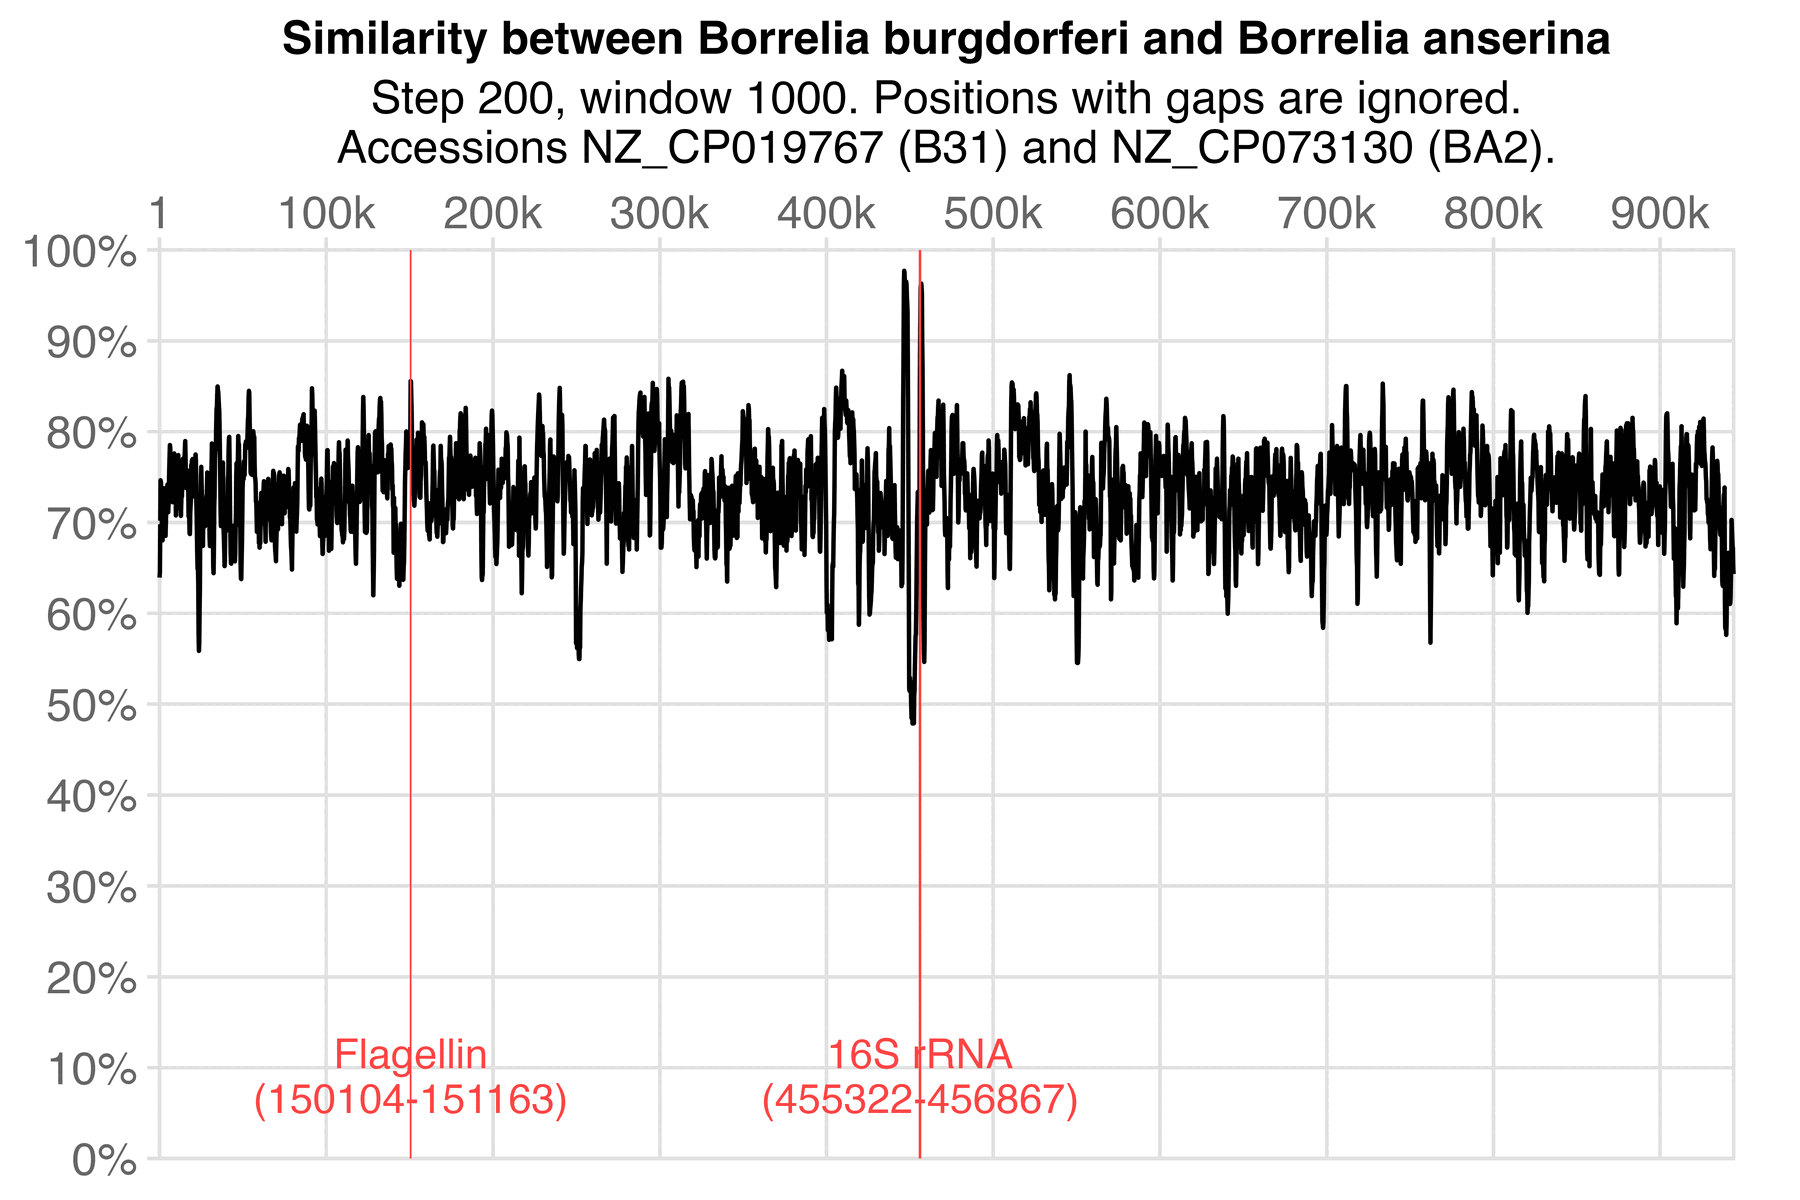
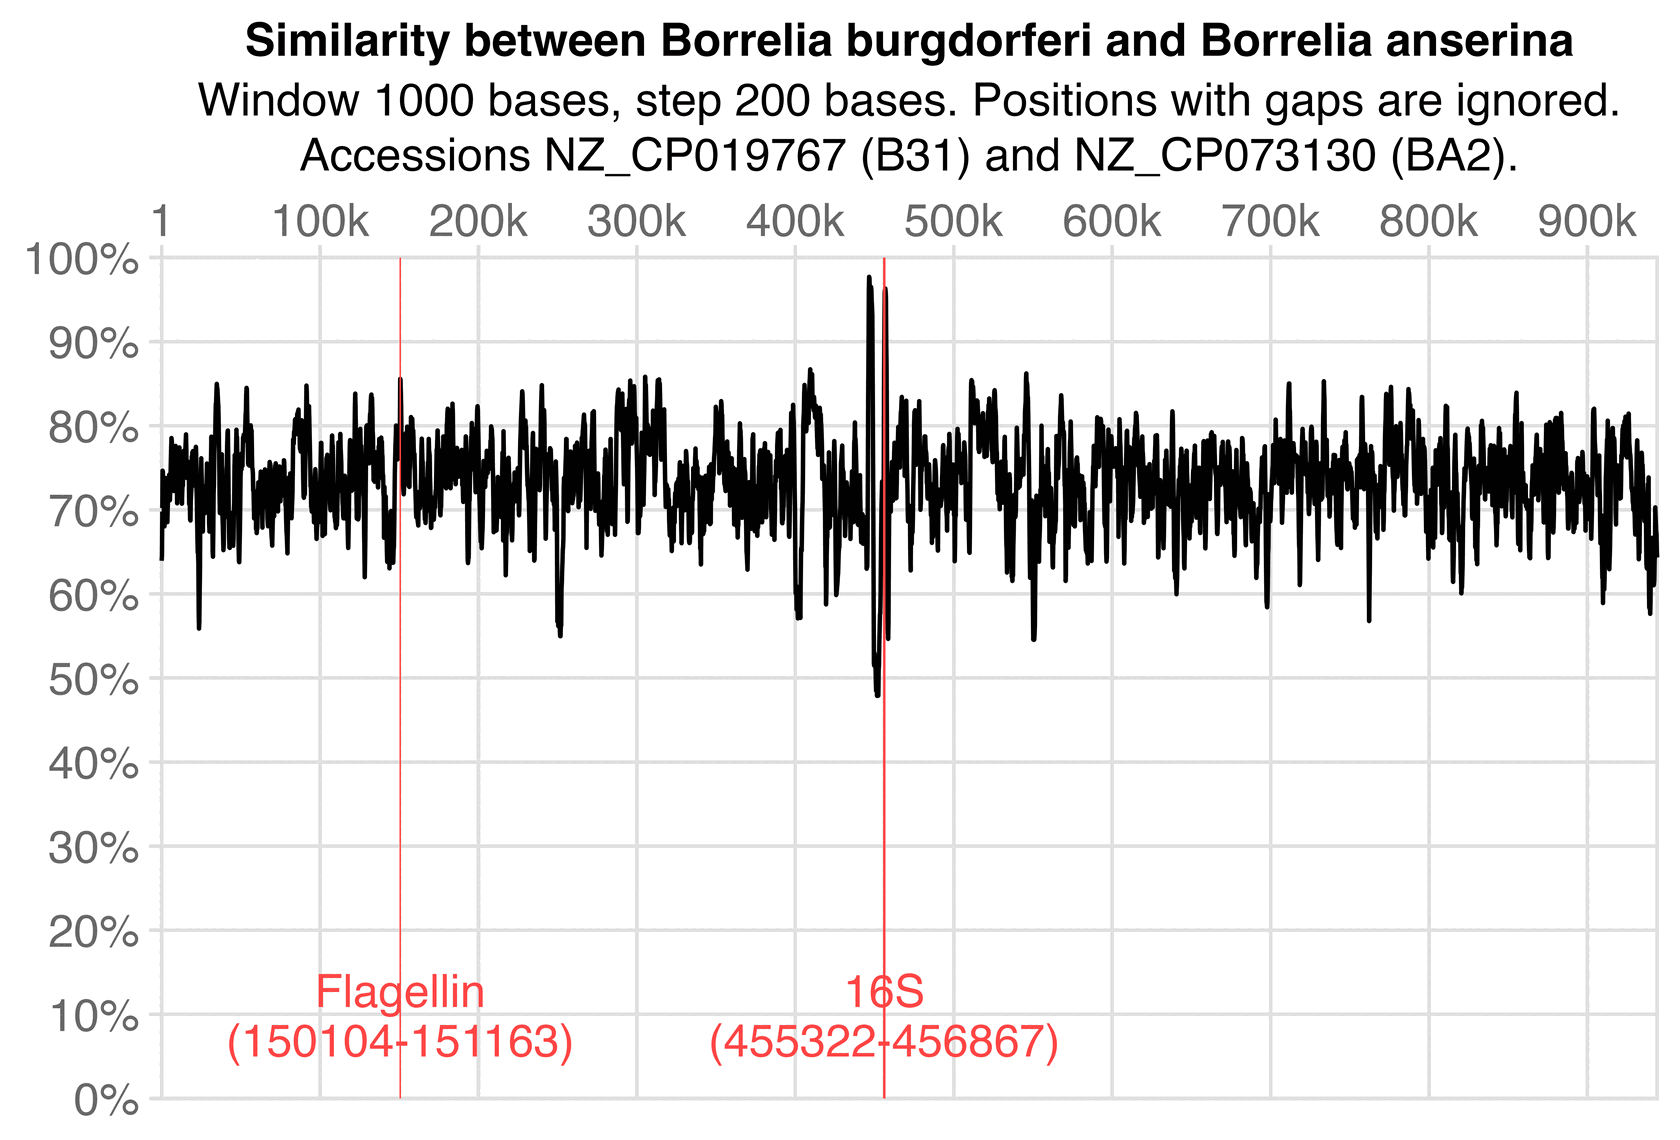
a

diff --git a/lyme.html b/lyme.html
@@ -10,12 +10,12 @@ dl,pre{margin:1em auto;width:fit-content;max-width:min(100%, 1000px);box-sizing:
 hr{border:none;border-top: 2px solid #bbb;margin:1em auto;max-width:480px}
 ul,ol{width:min(100%, 480px);margin:1em auto;box-sizing:border-box}
 ul ul,ul ol,ol ol,ol ul{margin-top:0;margin-bottom:0}
-h1,h2,h3,h2 a,h3 a,h2 a:visited,h3 a:visited{color:white;font-weight:normal}
+h1,h2,h3,h4,h2 a,h3 a,h2 a:visited,h3 a:visited{color:white;font-weight:normal}
 h2 a,h3 a{text-decoration:underline}
 h1{font-size:2.1em;margin:.7em 0 .5em 0}
 h2{font-size:1.75em}
 h3{font-size:1.35em}
-h4{font-size:1.1em}
+h4{font-size:1.15em}
 blockquote h2,blockquote h3,blockquote h4{margin:.5em 0}
 blockquote ul,blockquote ol{margin:.4em 0}
 a,a .quote{text-decoration:none;color:hsl(220,100%,75%)}
@@ -1801,11 +1801,11 @@ class="paren">[<a href=https://www.amazon.com/Lyme-Disease-Elbrus-Rachel-Verdon-
 I don't know if Verdon herself was a member of UJA in DC, or if she
 attended an event by UJA in DC even though she was not a member of UJA,
 or if she only communicated online with members of UJA from DC.</p>
-<p>However the connection to UJA in DC is interesting, because Loftus
-used to work in DC before he moved to Florida, and he spoke at several
-events organized by UJA between at least 1985 and 2003, one of which
-featured a person named Sol Schnadow according to <em class=quote>New Jewsey Jewish
-News</em>. <span
+<p>But regardless her connection to UJA in DC is interesting, because
+Loftus used to work in DC before he moved to Florida, and he spoke at
+several events organized by UJA between at least 1985 and 2003, one of
+which also featured a person named Sol Schnadow according to a Jewish
+newspaper. <span
 class="paren">[<a href=https://www.jhsnj-archives.org/?a=d&d=njjn19850620-01.1.1>https://<wbr>www.<wbr>jhsnj-<wbr>archives.<wbr>org/?<wbr>a=d&amp;<wbr>d=njjn19850620-<wbr>01.<wbr>1.<wbr>1</a>,
 <a href=https://www.jhsnj-archives.org/?a=d&d=njjn19851017-01.1.3>https://<wbr>www.<wbr>jhsnj-<wbr>archives.<wbr>org/?<wbr>a=d&amp;<wbr>d=njjn19851017-<wbr>01.<wbr>1.<wbr>3</a>,
 <a href=https://www.jhsnj-archives.org/?a=d&d=njjn19860206-01.1.6>https://<wbr>www.<wbr>jhsnj-<wbr>archives.<wbr>org/?<wbr>a=d&amp;<wbr>d=njjn19860206-<wbr>01.<wbr>1.<wbr>6</a>,
@@ -1919,7 +1919,7 @@ Later Mahmood's son told the Associated Press that Osama had asked
 Mahmood <span class="quote">"How can a nuclear bomb be made and can you
 help us make one?"</span> <span
 class="paren">[<a href=https://www.cbsnews.com/news/osama-wanted-nuke-help/>https://<wbr>www.<wbr>cbsnews.<wbr>com/<wbr>news/<wbr>osama-<wbr>wanted-<wbr>nuke-<wbr>help/<wbr></a>]</span></p>
-<p>In another part of the <em class=quote>Lab 257</em> book, Carrol wrote:</p>
+<p>In another part of the <em class=quote>Lab 257</em> book, Carroll wrote:</p>
 <blockquote class=quote>
 <p>The worst part of this scenario is that it pales in comparison to
 what the al Qaeda terrorist network or a well-trained
@@ -1949,8 +1949,8 @@ atrocity propaganda. The attacks on the twin towers were not blamed on
 Iraq, and none of the supposed hijackers came from Iraq, but Iraq was
 initially blamed for the anthrax attacks that began a week after
 September 11th. A month before the start of the Iraq War, Colin Powell
-famously held a mock vial of anthrax while he claimed Iraq was producing
-anthrax. <span
+famously gave a speech where he held a mock vial of anthrax while he
+claimed Iraq was producing anthrax. <span
 class="paren">[<a href=https://nsarchive2.gwu.edu/NSAEBB/NSAEBB234/20030205-Powell_UN.pdf>https://<wbr>nsarchive2.<wbr>gwu.<wbr>edu/<wbr>NSAEBB/<wbr>NSAEBB234/<wbr>20030205-<wbr>Powell_<wbr>UN.<wbr>pdf</a>]</span>
 The so-called weapons of mass destruction in Iraq were primarily said to
 be chemical and biological weapons, and not nuclear weapons. So the
@@ -1974,7 +1974,7 @@ career</a>
 <p>Mike Carroll received a bachelor's degree in political science from
 the School of Public Affairs of the American University in Washington
 DC, which offers many intelligence-related courses. Carroll is included
-on a list of famous alumni of his department along with two high-level
+on a list of notable alumni of his department along with two high-level
 DHS guys. <span
 class="paren">[<a href=https://www.american.edu/spa/alumni/notable-alumni.cfm>https://<wbr>www.<wbr>american.<wbr>edu/<wbr>spa/<wbr>alumni/<wbr>notable-<wbr>alumni.<wbr>cfm</a>]</span>
 The sports center of the university is known as the Adnan Khashoggi
@@ -3585,6 +3585,14 @@ correspond to tens or hundreds of millions of years of evolution.</p>
 orders of magnitude, so that within a period of only a few years, he was
 able to create all the different species in the LB group by serial
 passage starting from <em class=quote>Borrelia anserina</em>?</p>
+<p>In the introduction to Finnegan's book, Loftus suggested that
+<em class=quote>Borrelia burgdorferi</em> was created through serial passage, and he
+wrote: <span class="quote">"Serial passages can achieve laboratory viral
+and bacterial mutations in a few weeks that would take decades to
+develop in nature."</span> <span
+class="paren">[<a href=https://play.google.com/books/reader?id=aTKdEQAAQBAJ&pg=GBS.PT11.w.0.4.13_207>https://<wbr>play.<wbr>google.<wbr>com/<wbr>books/<wbr>reader?<wbr>id=aTKdEQAAQBAJ&amp;<wbr>pg=GBS.<wbr>PT11.<wbr>w.<wbr>0.<wbr>4.<wbr>13_<wbr>207</a>]</span>
+But the difference between decades and a few weeks is only about 2 to 3
+orders of magnitude, and not 7 to 8 orders of magnitude.</p>
 <p>The term <em class=quote>Borrelia burgdorferi</em> is sometimes employed in a
 broad sense <span class="paren">(<em class=quote>sensu lato</em>)</span>, which
 refers to a group of species of <em class=quote>Borrelia</em> associated with Lyme
@@ -3898,10 +3906,10 @@ a time span of a few years.</p>
 distance between <em class=quote>anserina</em> and <em class=quote>burgdorferi</em> corresponds
 to a tMRCA of about 200 million years. <span
 class="paren">[<a href=https://x.com/henjin256/status/2036272443992445130>https://<wbr>x.<wbr>com/<wbr>henjin256/<wbr>status/<wbr>2036272443992445130</a>]</span>
-He blocked me without responding to me, but a few hours later he posted
+He blocked me without replying to me, but a few hours later he tweeted
 about a paper that demonstrated that bacteria could acquire a 16S gene
 from another species of bacteria through horizontal gene transfer. So he
-seems to have suggested horizontal gene transfer might explain the
+seems to have suggested that horizontal gene transfer might explain the
 divergence between the 16S genes of <em class=quote>anserina</em> and
 <em class=quote>burgdorferi</em>: <span
 class="paren">[<a href=https://x.com/AWFinnegan/status/2036496401706684835>https://<wbr>x.<wbr>com/<wbr>AWFinnegan/<wbr>status/<wbr>2036496401706684835</a>,
@@ -3929,7 +3937,7 @@ targ=grep(<wbr>&quot;<wbr>burg&quot;,<wbr>rownames(<wbr>t),<wbr>value=T)<wbr>
 
 gene=fread(<wbr>&quot;<wbr>name,<wbr>start,<wbr>end,<wbr>height
 Flagellin,<wbr>147648,<wbr>148658,<wbr>1
-16S rRNA,<wbr>443773,<wbr>445308,<wbr>1&quot;)<wbr>
+16S,<wbr>443773,<wbr>445308,<wbr>1&quot;)<wbr>
 
 pos=seq_<wbr>along(<wbr>ref)+<wbr>cumsum(<wbr>ref==&quot;-<wbr>&quot;)<wbr>
 gene$<wbr>start=pos[<wbr>gene$<wbr>start]<wbr>
@@ -4285,7 +4293,7 @@ eggs instead of live chickens for teaching and research purposes.
 Finnegan interprets this as evidence that Traub came into possession of
 the avian spirochete <span class="paren">(<em class=quote>Spirochaeta
 gallinarum</em>, later renamed <em class=quote>Borrelia anserina</em>)</span>, which
-it claims was later weaponized into <em class=quote>Borrelia burgdorferi</em>.</p>
+he claims was later weaponized into <em class=quote>Borrelia burgdorferi</em>.</p>
 <h4
 id="mention-of-blood-parasites-in-the-horse-respiratory-catarrh-paper">3.
 1941 - Mention of blood parasites in the horse respiratory catarrh
@@ -4298,7 +4306,7 @@ catarrh. The paper is titled <span class="quote">"Infectious Respiratory
 Catarrh in the Horses of a Veterinary Company"</span> <span
 class="paren">(Traub 1941)</span>. Finnegan highlights the inclusion of
 blood-parasite examinations as evidence of Traub's direct laboratory
-experience with such organisms. It links this work to possible
+experience with such organisms. He links this work to possible
 familiarity with agents like <em class=quote>Babesia</em>, a common equine blood
 parasite, and suggests the study of mixed infections could have been
 useful for creating diagnostically confusing disease presentations.</p>
@@ -4311,7 +4319,7 @@ listed avian spirochetosis <span class="paren">(<em class=quote>Borrelia
 anserina</em>)</span> among <span class="quote">"special agents"</span>
 of particular concern. Finnegan claims this listing proves that Traub's
 earlier work with the avian spirochete at Giessen was recognized as a
-potential bioweapon. It further asserts that this conference provides
+potential bioweapon. He further asserts that this conference provides
 evidence that Lyme disease <span class="paren">(<em class=quote>Borrelia
 burgdorferi</em>)</span> originated from Traub's alleged weaponization
 of the avian strain, noting the complete absence of subsequent Plum
@@ -4327,7 +4335,7 @@ responsibilities connected to maintaining approximately 40 strains of
 viruses and rickettsiae. Finnegan interprets this broad mandate as
 including tick-borne diseases, even though no specific tick-borne agents
 are named in the surviving job descriptions or publications from that
-period. It presents these duties as circumstantial support for the idea
+period. He presents these duties as circumstantial support for the idea
 that Traub continued working with or supervising research on rickettsial
 and tick-related pathogens under U.S. Navy auspices.</p>
 <h4
@@ -4412,7 +4420,7 @@ was later renamed to <em class=quote>Borrelia anserina</em>. On his timeline
 Finnegan wrote that Schäfer mentioned <span class="quote">"that a fully
 virulent strain of Spirochaeta gallinarum was needed by his superiors at
 the University of Giessen for teaching and research purposes"</span>,
-even though in the paper of the paper Finnegan quoted, Schäfer didn't
+even though in the part of the paper Finnegan quoted, Schäfer didn't
 seem to specify if the spirochetes were required by his superiors or by
 someone else, because Schäfer simply wrote that <span
 class="quote">"we"</span> at <span class="quote">"our institute"</span>
@@ -4527,9 +4535,10 @@ transmission of LCM.</p></li>
 <p>One piece of evidence Grok omitted from its list of six points was a
 paragraph Finnegan quoted from <em class=quote>Lab 257</em>, where Mike Carroll
 claimed that an anonymous eyewitness said that a Nazi scientist had
-released ticks on Plum Island. But the eyewitness wasn't necessarily
-even talking about Traub, and eyewitness testimony concerning nefarious
-actions by Nazis is notoriously unreliable.</p>
+released ticks on Plum Island. But Carroll didn't even make it clear if
+the eyewitness was talking about Traub or some other Nazi scientist, and
+eyewitness testimony concerning nefarious actions by Nazis is
+notoriously unreliable.</p>
 <div id=pagenumber></div>
 <script>
 document.querySelectorAll('.spoiler button').forEach(x=>{

diff --git a/clot2.html b/clot2.html
@@ -10,12 +10,13 @@ dl,pre{margin:1em auto;width:fit-content;max-width:min(100%, 1000px);box-sizing:
 hr{border:none;border-top: 2px solid #bbb;margin:1em auto;max-width:480px}
 ul,ol{width:min(100%, 480px);margin:1em auto;box-sizing:border-box}
 ul ul,ul ol,ol ol,ol ul{margin-top:0;margin-bottom:0}
-h1,h2,h3,h2 a,h3 a,h2 a:visited,h3 a:visited{color:white;font-weight:normal}
+h1,h2,h3,h4,h2 a,h3 a,h2 a:visited,h3 a:visited{color:white;font-weight:normal}
 h2 a,h3 a{text-decoration:underline}
 h1{font-size:2.1em;margin:.7em 0 .5em 0}
 h2{font-size:1.75em}
 h3{font-size:1.35em}
-blockquote h2,blockquote h3{margin:.5em 0}
+h4{font-size:1.15em}
+blockquote h2,blockquote h3,blockquote h4{margin:.5em 0}
 blockquote ul,blockquote ol{margin:.4em 0}
 a,a .quote{text-decoration:none;color:hsl(220,100%,75%)}
 a:visited,a .quote{color:hsl(270,100%,75%)}
@@ -40,7 +41,7 @@ blockquote>:last-child{margin-bottom:0}
 .quote .quote .quote .quote{color:hsl(100,28%,35%)}
 .paren .quote{color:inherit}
 .quote .paren{color:inherit}
-blockquote h3{color:inherit}
+blockquote h3,blockquote h4{color:inherit}
 .paren{color:#c4c4c4}
 .spoiler{max-width:1060px;margin:0 auto}
 .spoiler button{width:90px;border:0;font-family:inherit;font-size:inherit;color:inherit;background:#4a4a4a;padding:4px 0px;outline:none;cursor:pointer;margin:0 0 -.3em 0}
@@ -72,7 +73,7 @@ blockquote blockquote blockquote blockquote,blockquote blockquote blockquote .qu
 }
 </style>
 <title>Are the white clots found by embalmers a hoax? (part 2)</title>
-<h1>Are the white clots found by embalmers a hoax? (part 2) - <a href=index.html>sars2.net</a></h1><div class=dates>First published 2025-05-13 UTC, last modified 2026-03-22 UTC</div><p>Other parts: <a href=clot.html>clot.<wbr>html</a>,
+<h1>Are the white clots found by embalmers a hoax? (part 2) - <a href=index.html>sars2.net</a></h1><div class=dates>First published 2025-05-13 UTC, last modified 2026-03-25 UTC</div><p>Other parts: <a href=clot.html>clot.<wbr>html</a>,
 <a href=clot3.html>clot3.<wbr>html</a> <span class="paren">(Kevin
 McCairn)</span>.</p>
 <h2 id=Contents><a href=#Contents>Contents</a></h2>
@@ -1017,7 +1018,16 @@ few months later. Greg also posted the same photo that was posted by
 NZDSOS: <span
 class="paren">[<a href=https://x.com/Greg21143362/status/1776172411819594066>https://<wbr>x.<wbr>com/<wbr>Greg21143362/<wbr>status/<wbr>1776172411819594066</a>]</span></p>
 <div>
-<img src=i/clot-living-greg.jpg width=550>
+<img src=i/clot-living-greg.jpg width=594>
+</div>
+<hr />
+<p>Added in 2026: Matt Trozzi now presented the photos by NZDSOS as
+evidence that calamari clots occur in living people, but an MD user
+pointed out it was normal for fibrin clots to develop in surgical drain
+tubes: <span
+class="paren">[<a href=https://x.com/osbourne1504>https://<wbr>x.<wbr>com/<wbr>osbourne1504</a>]</span></p>
+<div>
+<img src=i/clot-trozzi-surgery.webp width=593>
 </div>
 <h2>
 <a href="#Artificial_clots_can_be_created_with_a_Chandler_loop_device" id="Artificial_clots_can_be_created_with_a_Chandler_loop_device">Artificial
@@ -3209,9 +3219,9 @@ class="paren">[<a href=https://www.gofundme.com/f/uycgh-david039s-campaign-for-h
 </div>
 <p>In 2023 Sansone was a speaker in a symposium held by Todd Callender's
 organization Vaxxchoice, which also featured David Meiswinkle, Ana
-Mihalcea, Todd Callender, the DMED whistleblowers Theresa Long and Pete
-Chambers, the Qtard lady Ann Vandersteel, and Jeffrey Prather who was
-the Chief of Global Operations at the Defense Intelligence Agency: <span
+Mihalcea, the DMED whistleblowers Theresa Long and Pete Chambers, the
+Qtard lady Ann Vandersteel, and Jeffrey Prather who was the Chief of
+Global Operations at the Defense Intelligence Agency: <span
 class="paren">[<a href=https://rumble.com/v3m2qb1-emerging-threats-symposium-preparedness-and-treatment-solutions-5g-the-next.html>https://<wbr>rumble.<wbr>com/<wbr>v3m2qb1-<wbr>emerging-<wbr>threats-<wbr>symposium-<wbr>preparedness-<wbr>and-<wbr>treatment-<wbr>solutions-<wbr>5g-<wbr>the-<wbr>next.<wbr>html</a>]</span></p>
 <div>
 <img src=i/clot-vaxxchoice-symposium.jpg width=600>
